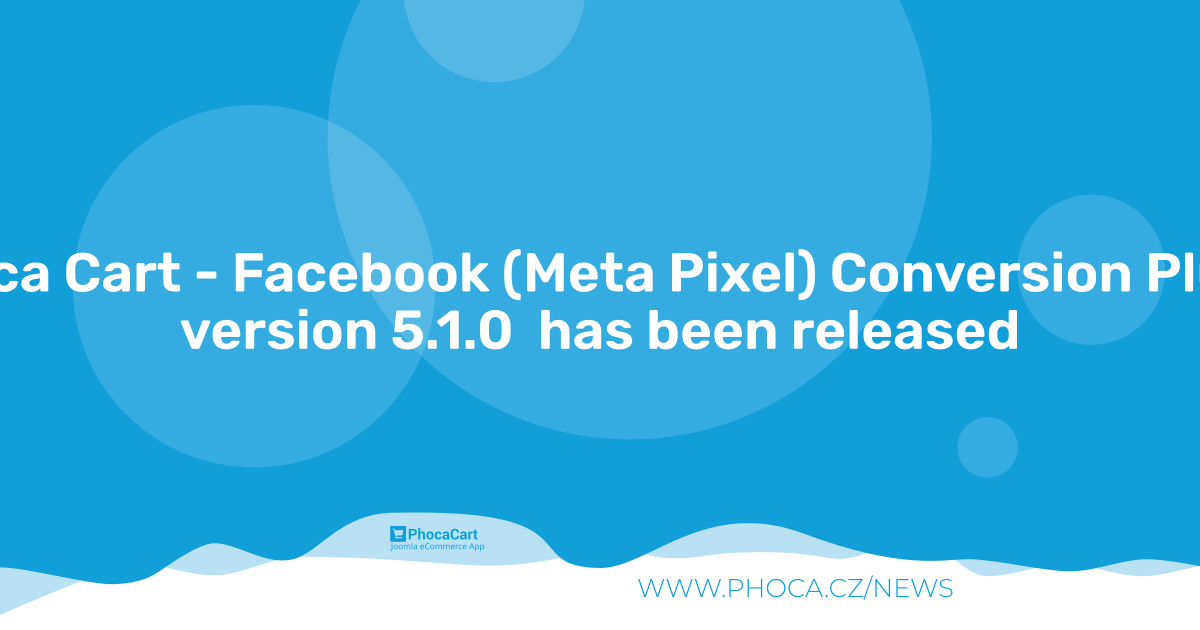
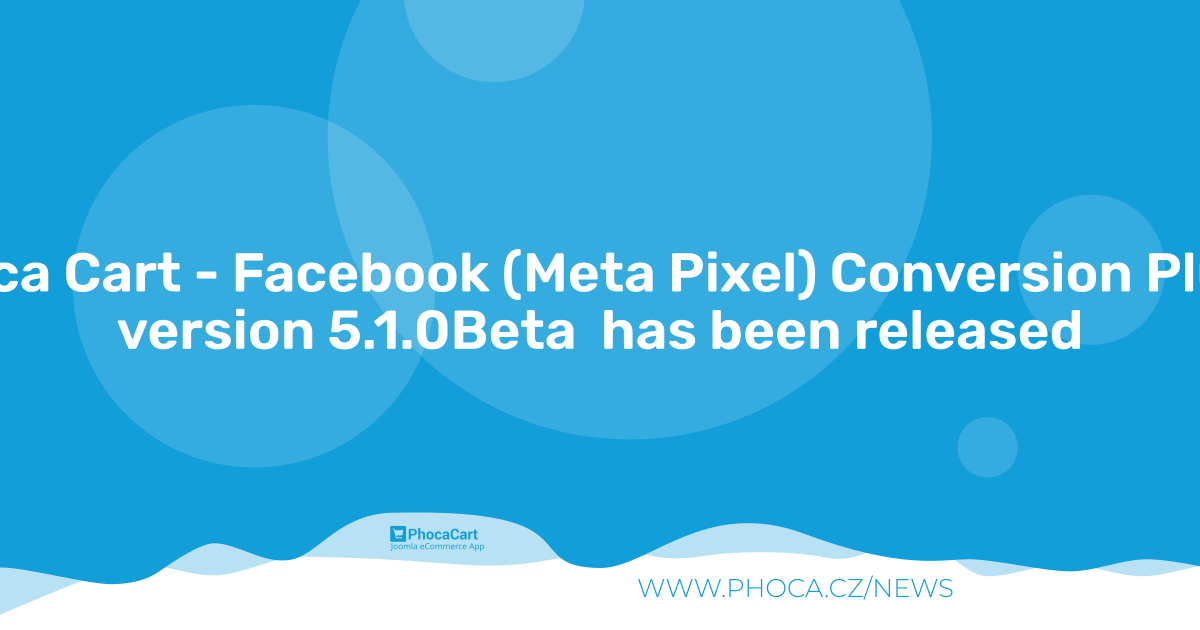
5.1.0Beta

Changed region(s): [[0.0925, 0.4825, 0.925, 0.573]]

diff --git a/README.MD b/README.MD
@@ -54,7 +54,7 @@ Phoca Cart - Facebook (Meta Pixel) Conversion Tracking Plugin - plugin that inse
 
 ## Version (Joomla! 5.x)
 
-5.1.0
+5.1.0Beta
 
 
 
